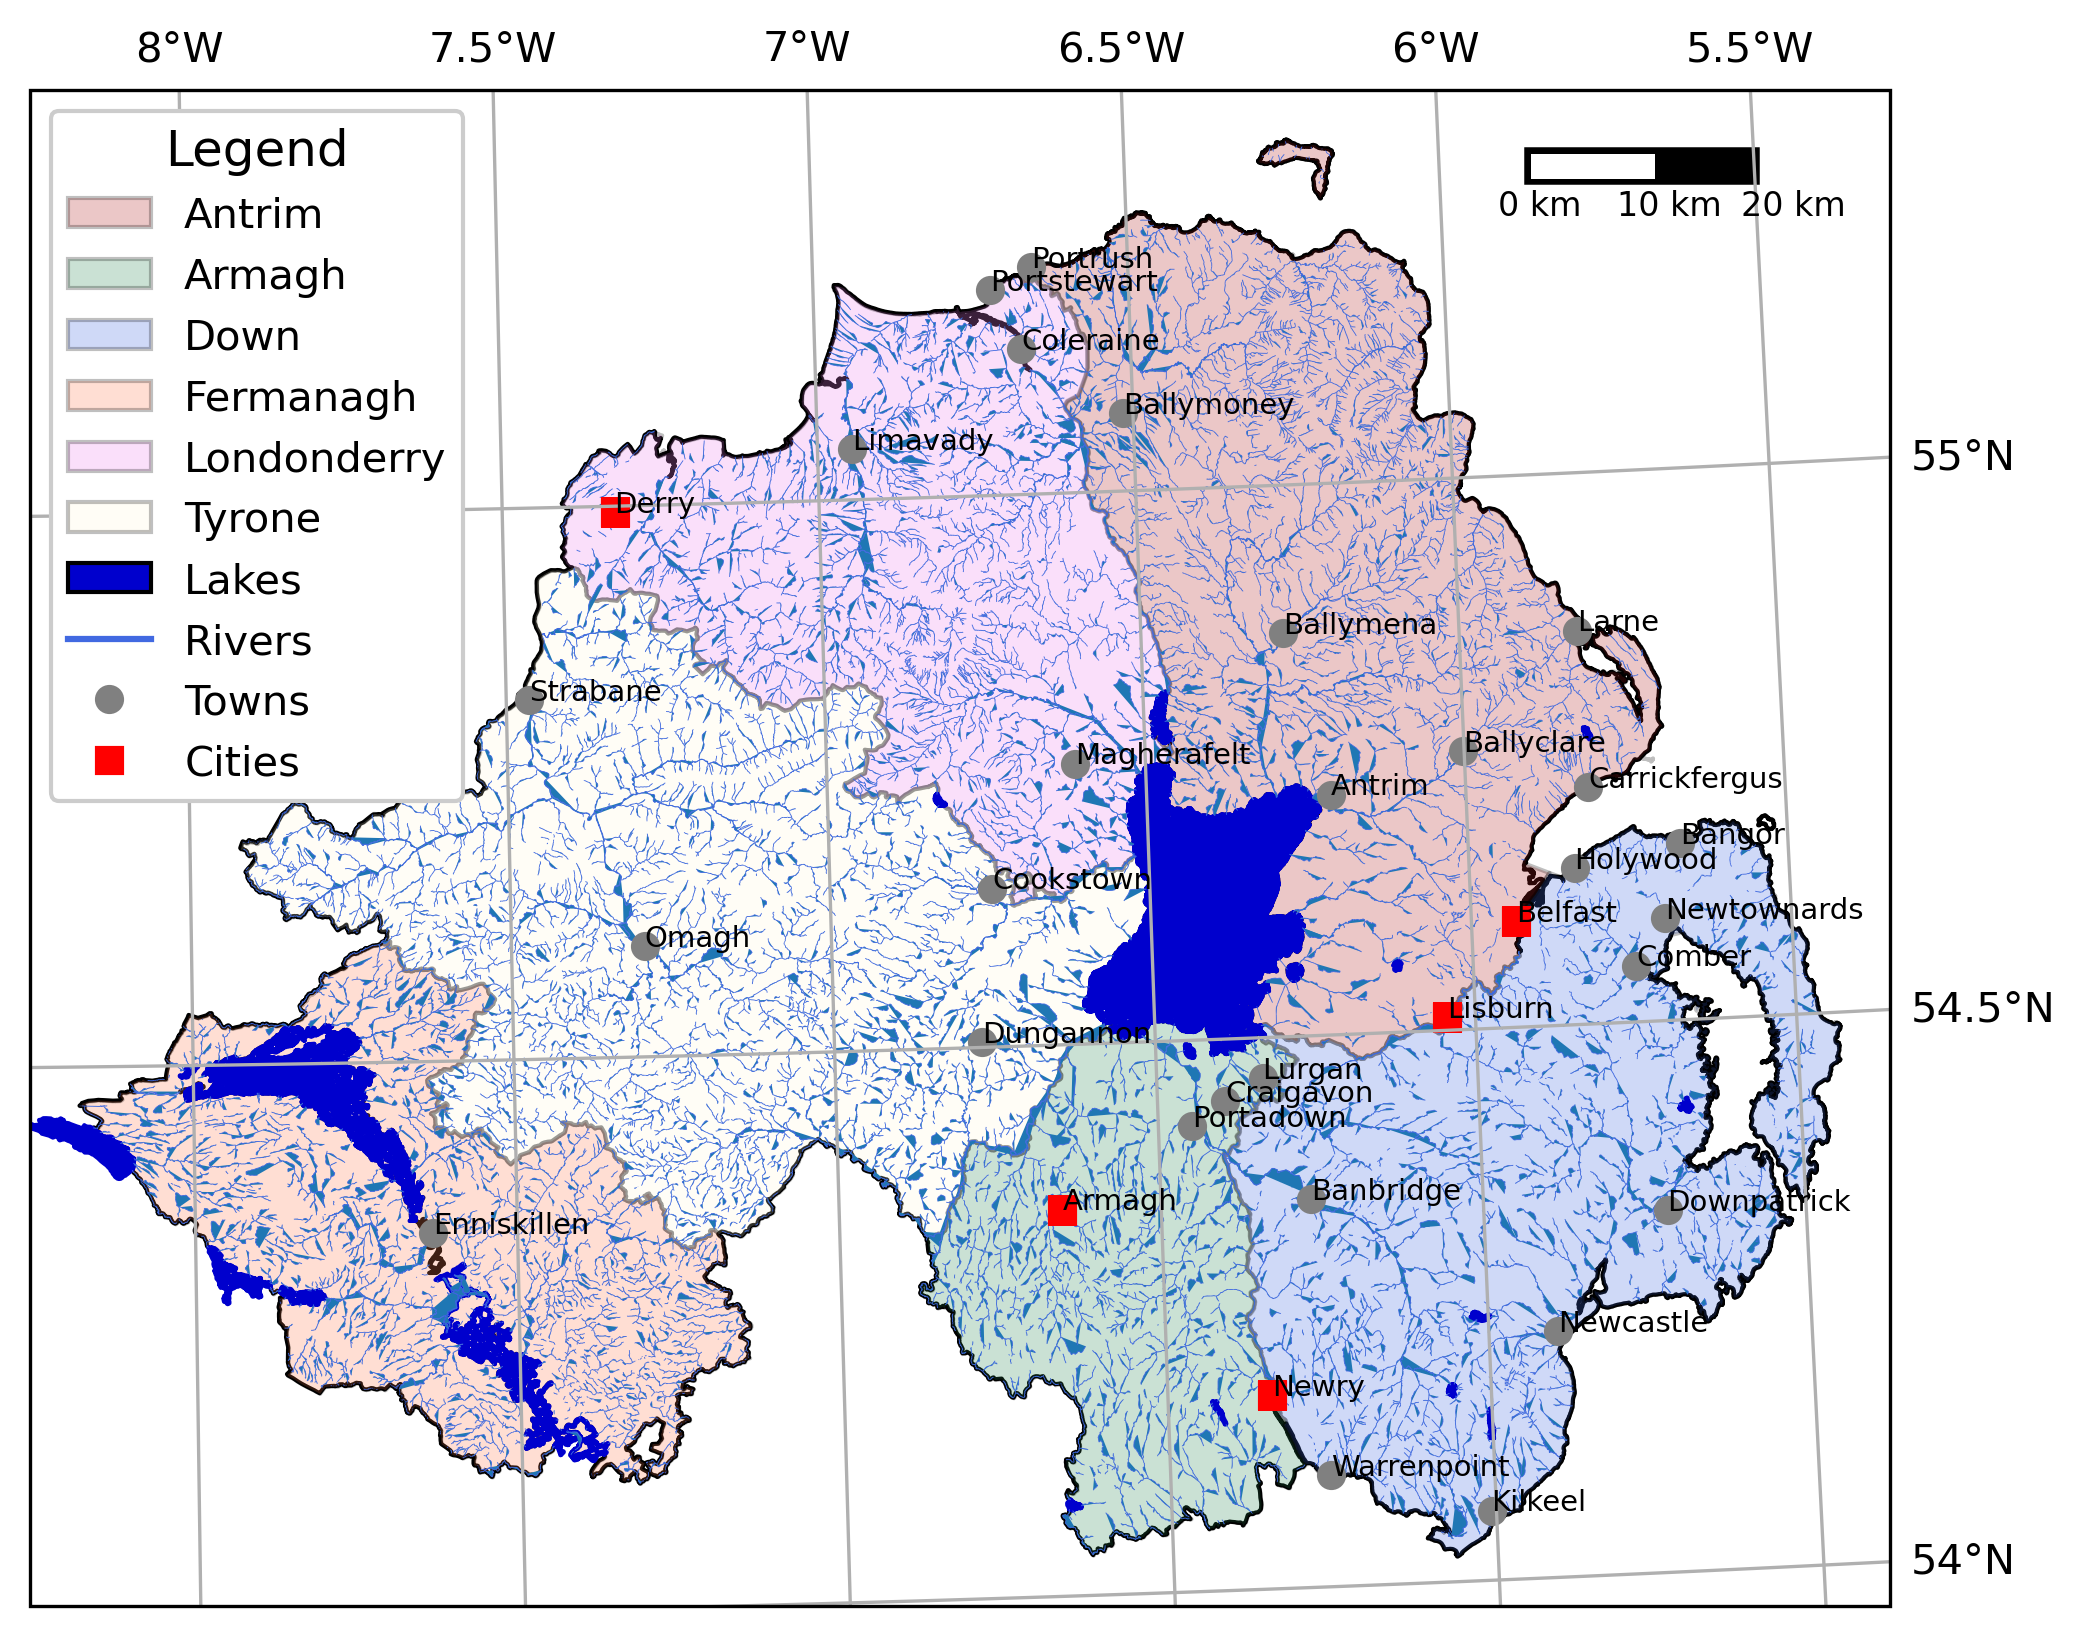
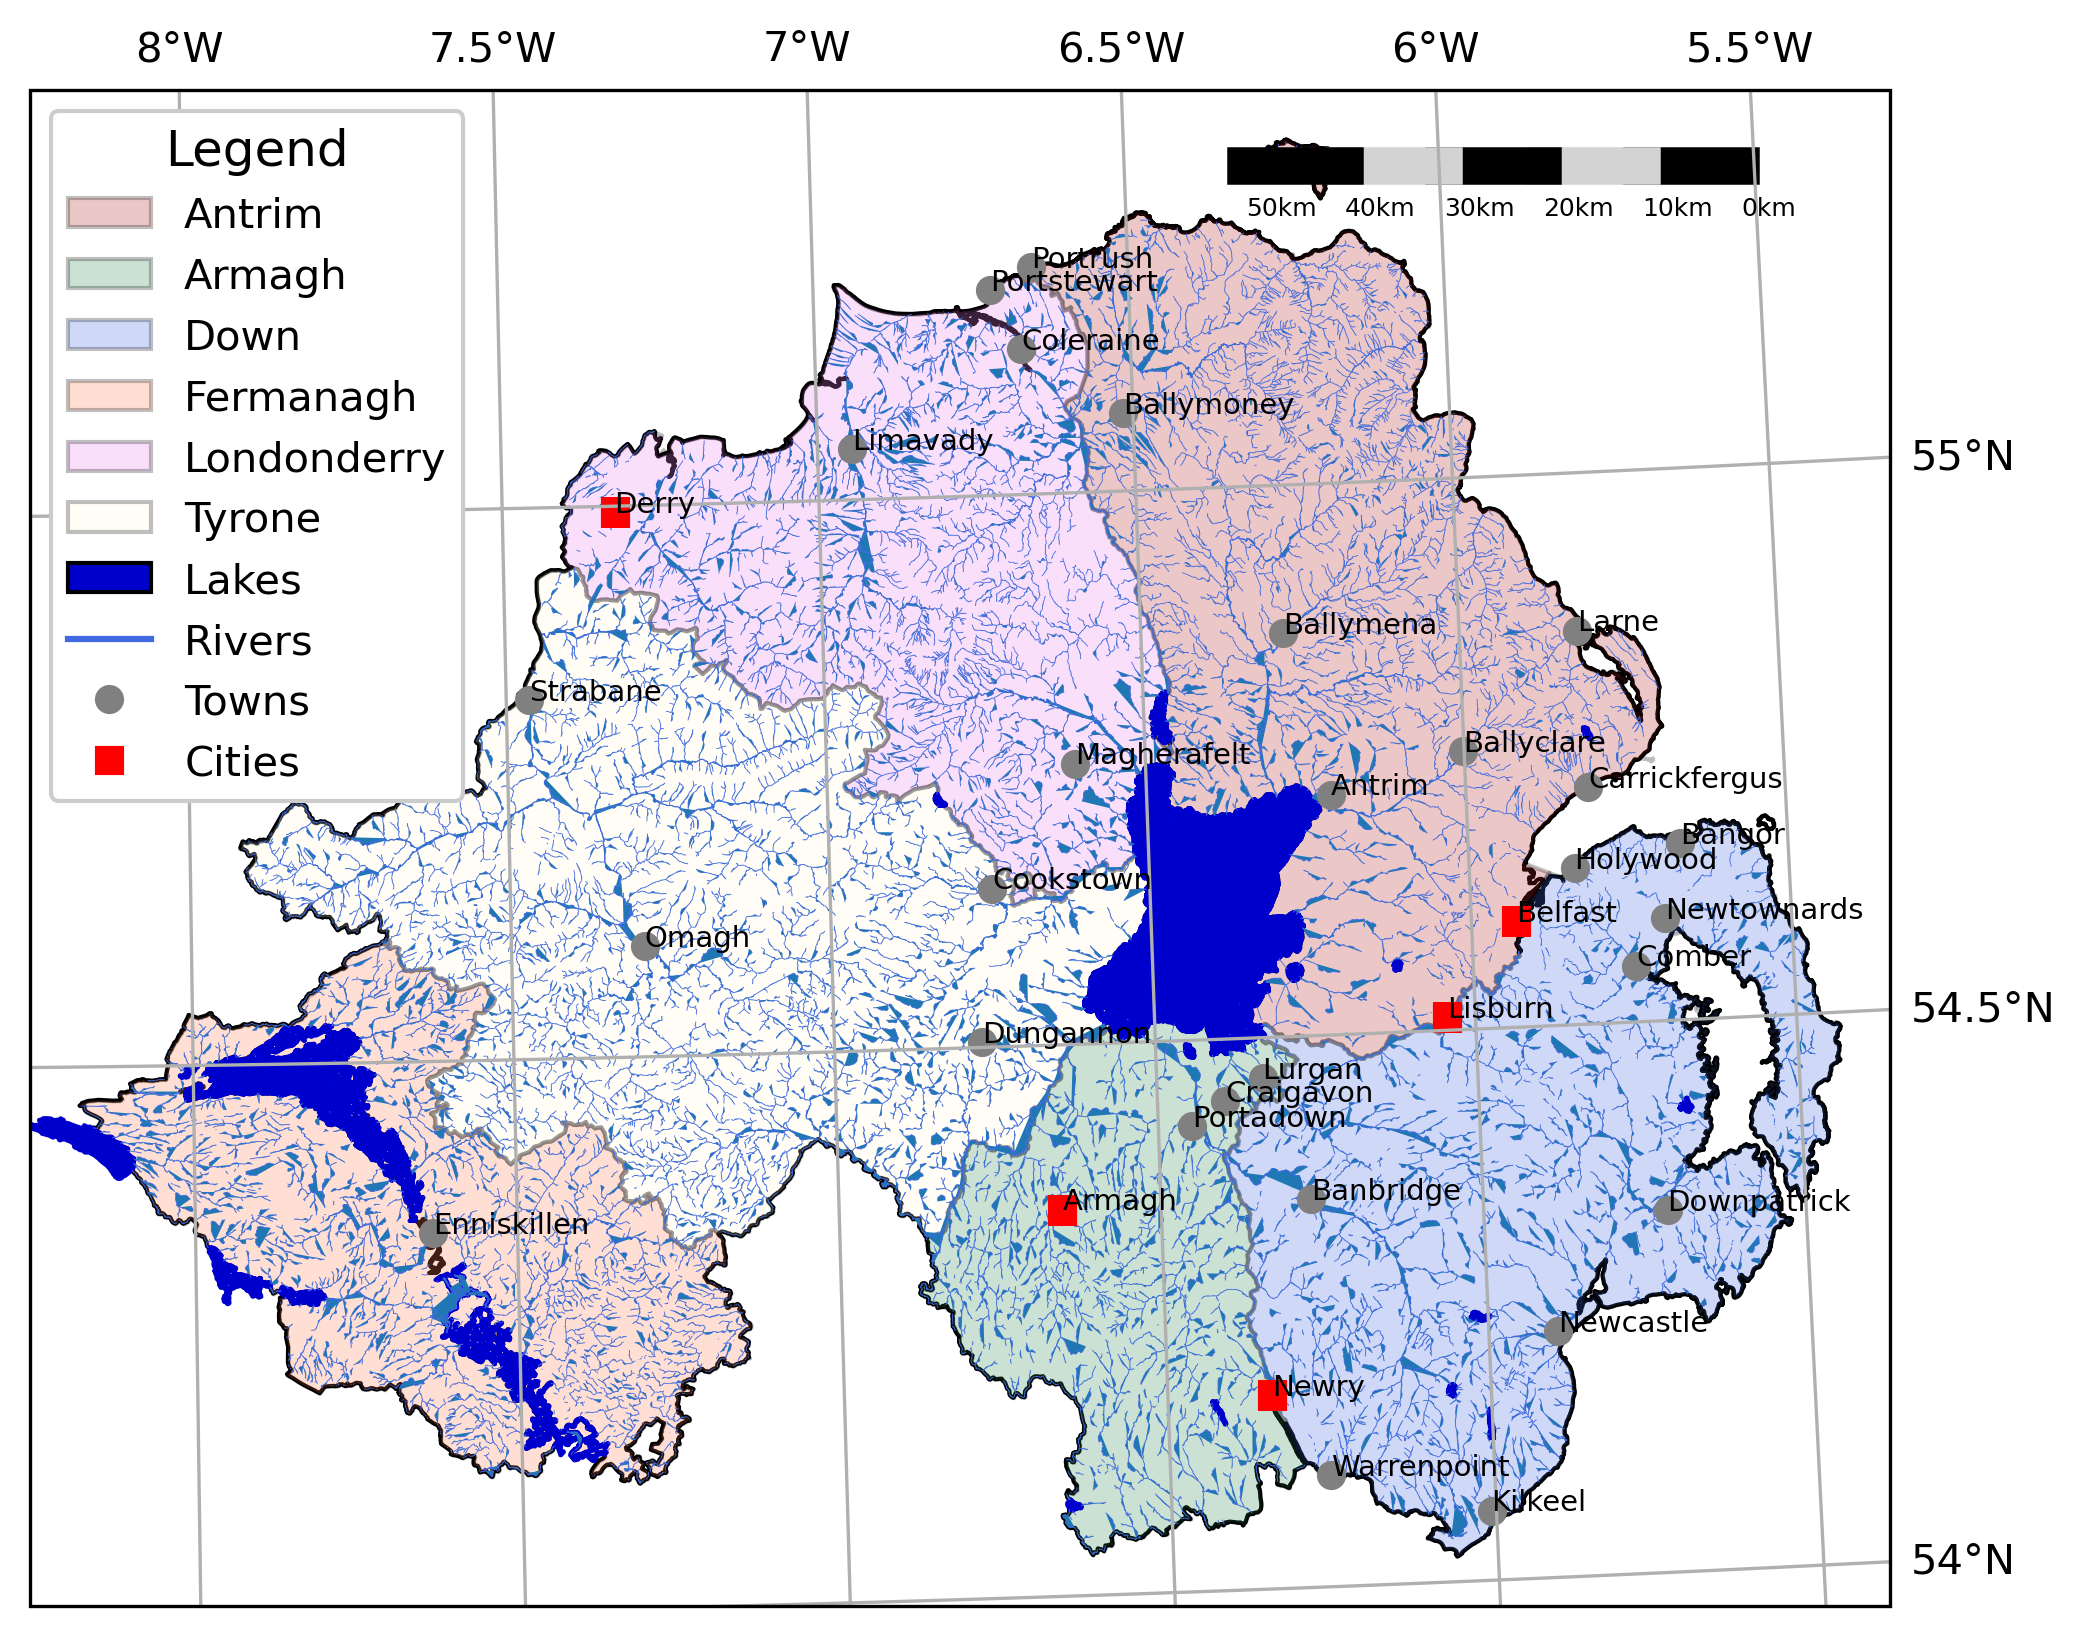
reworking scale bar

Changed region(s): [[0.5923, 0.0623, 0.8729, 0.1559]]

diff --git a/Week2/practical2_script.py b/Week2/practical2_script.py
@@ -18,22 +18,29 @@ def generate_handles(labels, colors, edge='k', alpha=1):
 # create a scale bar of length 20 km in the upper right corner of the map
 # adapted this question: https://stackoverflow.com/q/32333870
 # answered by SO user Siyh: https://stackoverflow.com/a/35705477
-def scale_bar(ax, location=(0.92, 0.95)):
-    x0, x1, y0, y1 = ax.get_extent() # get the current extent of the axis
-    sbx = x0 + (x1 - x0) * location[0] # get the lower left x coordinate of the scale bar
-    sby = y0 + (y1 - y0) * location[1] # get the lower left y coordinate of the scale bar
+import matplotlib.pyplot as plt
 
-    ax.plot([sbx, sbx - 20000], [sby, sby], color='k', linewidth=9, transform=ax.projection) # plot a thick black line, 20 km long
-    ax.plot([sbx, sbx - 10000], [sby, sby], color='k', linewidth=6, transform=ax.projection) # plot a smaller black line from 0 to 10 km long
-    ax.plot([sbx, sbx - 5000], [sby, sby], color='k', linewidth=6, transform=ax.projection)  # plot a smaller black line from 0 to 10 km long
-    ax.plot([sbx, sbx - 1000], [sby, sby], color='k', linewidth=6, transform=ax.projection)  # plot a smaller black line from 0 to 10 km long
-    ax.plot([sbx-10000, sbx - 20000], [sby, sby], color='w', linewidth=6, transform=ax.projection) # plot a white line from 10 to 20 km
+import matplotlib.pyplot as plt
 
-    ax.text(sbx, sby-5000, '20 km', transform=ax.projection, fontsize=8) # add a label at 20 km
-    ax.text(sbx-12500, sby-5000, '10 km', transform=ax.projection, fontsize=8) # add a label at 10 km
-    ax.text(sbx-24500, sby-5000, '0 km', transform=ax.projection, fontsize=8) # add a label at 0 km
 
-    return ax
+def scale_bar(ax, location=(0.92, 0.95), length=50000, interval=10000):
+    x0, x1, y0, y1 = ax.get_extent()  # get the current extent of the axis
+    sbx = x0 + (x1 - x0) * location[0]  # get the lower left x coordinate of the scale bar
+    sby = y0 + (y1 - y0) * location[1]  # get the lower left y coordinate of the scale bar
+
+    # Calculate the adjustment for the starting point of the scale bar
+    start_adjustment = length % interval
+
+    # Plot the scale bar lines
+    for i in range(0, length + interval, interval):
+        color = 'black' if (i // interval) % 2 == 0 else 'lightgrey'  # alternate between black and white
+        start_point = sbx - min(i + interval, length) + start_adjustment
+        end_point = sbx - min(i, length)
+        ax.plot([start_point, end_point], [sby, sby], color=color, linewidth=9, transform=ax.projection)
+
+    # Add labels for the scale bar
+    for i in range(0, length + interval, interval):
+        ax.text(sbx - i + start_adjustment, sby - 5000, f'{i // 1000}km', transform=ax.projection, fontsize=6)
 
 
 # load the datasets
